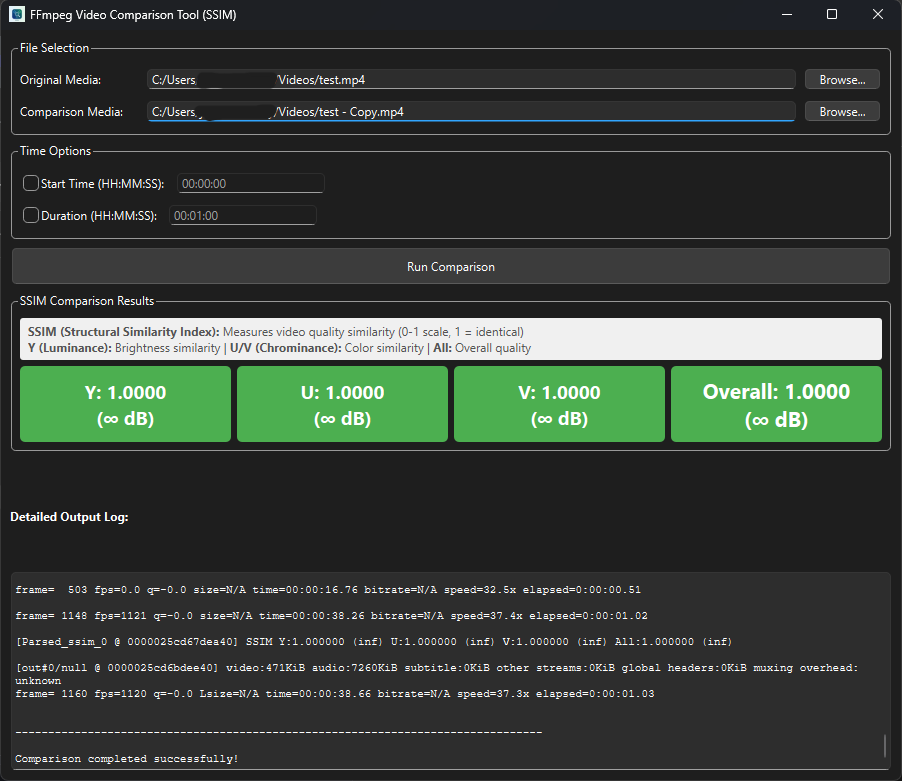
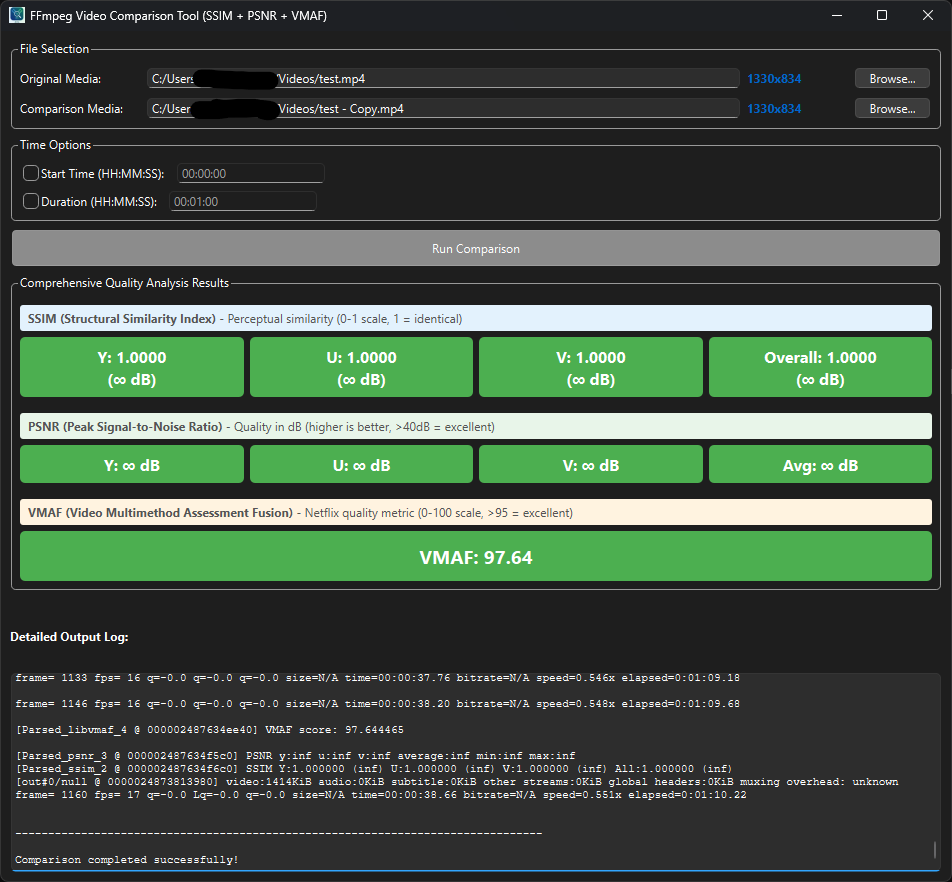
Enhance video quality analysis by adding PSNR and VMAF metrics to the comparison tool

diff --git a/src/MainWindow.cpp b/src/MainWindow.cpp
@@ -11,8 +11,8 @@
 
 MainWindow::MainWindow(QWidget *parent) : QMainWindow(parent), ffmpegProcess(nullptr) {
     setupUI();
-    setWindowTitle("FFmpeg Video Comparison Tool (SSIM)");
-    resize(900, 750);  // Taller window for better layout
+    setWindowTitle("FFmpeg Video Comparison Tool (SSIM + PSNR + VMAF)");
+    resize(950, 850);  // Larger window for additional metrics
 }
 
 MainWindow::~MainWindow() {
@@ -105,49 +105,93 @@ void MainWindow::setupUI() {
     mainLayout->addWidget(progressBar);
     
     // Results Group
-    resultsGroup = new QGroupBox("SSIM Comparison Results", this);
+    resultsGroup = new QGroupBox("Comprehensive Quality Analysis Results", this);
     resultsGroup->setVisible(false);
     QVBoxLayout *resultsLayout = new QVBoxLayout(resultsGroup);
     
-    // Info label
-    QLabel *infoLabel = new QLabel(
-        "<b>SSIM (Structural Similarity Index):</b> Measures video quality similarity (0-1 scale, 1 = identical)<br>"
-        "<b>Y (Luminance):</b> Brightness similarity | "
-        "<b>U/V (Chrominance):</b> Color similarity | "
-        "<b>All:</b> Overall quality",
-        this);
-    infoLabel->setWordWrap(true);
-    infoLabel->setStyleSheet("QLabel { color: #555; font-size: 9pt; padding: 5px; background-color: #f0f0f0; border-radius: 3px; }");
-    resultsLayout->addWidget(infoLabel);
+    // SSIM Section
+    QLabel *ssimHeader = new QLabel("<b>SSIM (Structural Similarity Index)</b> - Perceptual similarity (0-1 scale, 1 = identical)", this);
+    ssimHeader->setStyleSheet("QLabel { color: #555; font-size: 9pt; padding: 5px; background-color: #e3f2fd; border-radius: 3px; margin-top: 5px; }");
+    resultsLayout->addWidget(ssimHeader);
     
-    // Results display
-    QHBoxLayout *scoresLayout = new QHBoxLayout();
+    // SSIM Results display
+    QHBoxLayout *ssimLayout = new QHBoxLayout();
     
     resultYLabel = new QLabel("Y: --", this);
-    resultYLabel->setStyleSheet("QLabel { font-size: 14pt; font-weight: bold; padding: 10px; background-color: #e3f2fd; border-radius: 5px; }");
+    resultYLabel->setStyleSheet("QLabel { font-size: 12pt; font-weight: bold; padding: 8px; background-color: #e3f2fd; border-radius: 5px; }");
     resultYLabel->setAlignment(Qt::AlignCenter);
     resultYLabel->setToolTip("Luminance (Brightness) Similarity");
-    scoresLayout->addWidget(resultYLabel);
+    ssimLayout->addWidget(resultYLabel);
     
     resultULabel = new QLabel("U: --", this);
-    resultULabel->setStyleSheet("QLabel { font-size: 14pt; font-weight: bold; padding: 10px; background-color: #e8f5e9; border-radius: 5px; }");
+    resultULabel->setStyleSheet("QLabel { font-size: 12pt; font-weight: bold; padding: 8px; background-color: #e3f2fd; border-radius: 5px; }");
     resultULabel->setAlignment(Qt::AlignCenter);
     resultULabel->setToolTip("U Chrominance (Color) Similarity");
-    scoresLayout->addWidget(resultULabel);
+    ssimLayout->addWidget(resultULabel);
     
     resultVLabel = new QLabel("V: --", this);
-    resultVLabel->setStyleSheet("QLabel { font-size: 14pt; font-weight: bold; padding: 10px; background-color: #fff3e0; border-radius: 5px; }");
+    resultVLabel->setStyleSheet("QLabel { font-size: 12pt; font-weight: bold; padding: 8px; background-color: #e3f2fd; border-radius: 5px; }");
     resultVLabel->setAlignment(Qt::AlignCenter);
     resultVLabel->setToolTip("V Chrominance (Color) Similarity");
-    scoresLayout->addWidget(resultVLabel);
+    ssimLayout->addWidget(resultVLabel);
     
     resultAllLabel = new QLabel("Overall: --", this);
-    resultAllLabel->setStyleSheet("QLabel { font-size: 16pt; font-weight: bold; padding: 10px; background-color: #f3e5f5; border-radius: 5px; }");
+    resultAllLabel->setStyleSheet("QLabel { font-size: 12pt; font-weight: bold; padding: 8px; background-color: #bbdefb; border-radius: 5px; }");
     resultAllLabel->setAlignment(Qt::AlignCenter);
-    resultAllLabel->setToolTip("Overall Quality Score");
-    scoresLayout->addWidget(resultAllLabel);
+    resultAllLabel->setToolTip("Overall SSIM Score");
+    ssimLayout->addWidget(resultAllLabel);
     
-    resultsLayout->addLayout(scoresLayout);
+    resultsLayout->addLayout(ssimLayout);
+    
+    // PSNR Section
+    QLabel *psnrHeader = new QLabel("<b>PSNR (Peak Signal-to-Noise Ratio)</b> - Quality in dB (higher is better, >40dB = excellent)", this);
+    psnrHeader->setStyleSheet("QLabel { color: #555; font-size: 9pt; padding: 5px; background-color: #e8f5e9; border-radius: 3px; margin-top: 10px; }");
+    resultsLayout->addWidget(psnrHeader);
+    
+    // PSNR Results display
+    QHBoxLayout *psnrLayout = new QHBoxLayout();
+    
+    psnrYLabel = new QLabel("Y: --", this);
+    psnrYLabel->setStyleSheet("QLabel { font-size: 12pt; font-weight: bold; padding: 8px; background-color: #e8f5e9; border-radius: 5px; }");
+    psnrYLabel->setAlignment(Qt::AlignCenter);
+    psnrYLabel->setToolTip("Luminance PSNR");
+    psnrLayout->addWidget(psnrYLabel);
+    
+    psnrULabel = new QLabel("U: --", this);
+    psnrULabel->setStyleSheet("QLabel { font-size: 12pt; font-weight: bold; padding: 8px; background-color: #e8f5e9; border-radius: 5px; }");
+    psnrULabel->setAlignment(Qt::AlignCenter);
+    psnrULabel->setToolTip("U Chrominance PSNR");
+    psnrLayout->addWidget(psnrULabel);
+    
+    psnrVLabel = new QLabel("V: --", this);
+    psnrVLabel->setStyleSheet("QLabel { font-size: 12pt; font-weight: bold; padding: 8px; background-color: #e8f5e9; border-radius: 5px; }");
+    psnrVLabel->setAlignment(Qt::AlignCenter);
+    psnrVLabel->setToolTip("V Chrominance PSNR");
+    psnrLayout->addWidget(psnrVLabel);
+    
+    psnrAvgLabel = new QLabel("Average: --", this);
+    psnrAvgLabel->setStyleSheet("QLabel { font-size: 12pt; font-weight: bold; padding: 8px; background-color: #c8e6c9; border-radius: 5px; }");
+    psnrAvgLabel->setAlignment(Qt::AlignCenter);
+    psnrAvgLabel->setToolTip("Average PSNR");
+    psnrLayout->addWidget(psnrAvgLabel);
+    
+    resultsLayout->addLayout(psnrLayout);
+    
+    // VMAF Section
+    QLabel *vmafHeader = new QLabel("<b>VMAF (Video Multimethod Assessment Fusion)</b> - Netflix quality metric (0-100 scale, >95 = excellent)", this);
+    vmafHeader->setStyleSheet("QLabel { color: #555; font-size: 9pt; padding: 5px; background-color: #fff3e0; border-radius: 3px; margin-top: 10px; }");
+    resultsLayout->addWidget(vmafHeader);
+    
+    // VMAF Results display
+    QHBoxLayout *vmafLayout = new QHBoxLayout();
+    
+    vmafScoreLabel = new QLabel("VMAF Score: --", this);
+    vmafScoreLabel->setStyleSheet("QLabel { font-size: 14pt; font-weight: bold; padding: 12px; background-color: #ffe0b2; border-radius: 5px; }");
+    vmafScoreLabel->setAlignment(Qt::AlignCenter);
+    vmafScoreLabel->setToolTip("Overall VMAF Quality Score");
+    vmafLayout->addWidget(vmafScoreLabel);
+    
+    resultsLayout->addLayout(vmafLayout);
     mainLayout->addWidget(resultsGroup);
     
     // Add spacing
@@ -286,8 +330,16 @@ void MainWindow::runComparison() {
     // Second input file
     arguments << "-i" << comparisonFileEdit->text();
     
-    // SSIM filter and output
-    arguments << "-lavfi" << "ssim" << "-f" << "null" << "-";
+    // Complex filter with SSIM, PSNR, and VMAF
+    QString filterComplex = "[0:v]split=3[ref1][ref2][ref3];[1:v]split=3[main1][main2][main3];"
+                            "[main1][ref1]ssim[stats_ssim];"
+                            "[main2][ref2]psnr[stats_psnr];"
+                            "[main3][ref3]libvmaf";
+    
+    arguments << "-filter_complex" << filterComplex
+              << "-map" << "[stats_ssim]"
+              << "-map" << "[stats_psnr]"
+              << "-f" << "null" << "-";
     
     // Display command
     outputText->clear();
@@ -391,8 +443,8 @@ void MainWindow::processError() {
             QString allDbStr = ssimMatch.captured(8);
             
             // Update result labels with color coding
-            auto getColorStyle = [](double score) {
-                QString baseStyle = "QLabel { font-size: 14pt; font-weight: bold; padding: 10px; border-radius: 5px; ";
+            auto getSSIMColorStyle = [](double score) {
+                QString baseStyle = "QLabel { font-size: 12pt; font-weight: bold; padding: 8px; border-radius: 5px; ";
                 if (score >= 0.99) return baseStyle + "background-color: #4caf50; color: white; }"; // Excellent - green
                 if (score >= 0.95) return baseStyle + "background-color: #8bc34a; color: white; }"; // Very good - light green
                 if (score >= 0.90) return baseStyle + "background-color: #ffeb3b; color: black; }"; // Good - yellow
@@ -401,23 +453,74 @@ void MainWindow::processError() {
             };
             
             resultYLabel->setText(QString("Y: %1\n(%2)").arg(yScore, 0, 'f', 4).arg(yDbStr == "inf" ? "∞ dB" : yDbStr + " dB"));
-            resultYLabel->setStyleSheet(getColorStyle(yScore));
+            resultYLabel->setStyleSheet(getSSIMColorStyle(yScore));
             
             resultULabel->setText(QString("U: %1\n(%2)").arg(uScore, 0, 'f', 4).arg(uDbStr == "inf" ? "∞ dB" : uDbStr + " dB"));
-            resultULabel->setStyleSheet(getColorStyle(uScore));
+            resultULabel->setStyleSheet(getSSIMColorStyle(uScore));
             
             resultVLabel->setText(QString("V: %1\n(%2)").arg(vScore, 0, 'f', 4).arg(vDbStr == "inf" ? "∞ dB" : vDbStr + " dB"));
-            resultVLabel->setStyleSheet(getColorStyle(vScore));
-            
-            QString overallStyle = "QLabel { font-size: 16pt; font-weight: bold; padding: 10px; border-radius: 5px; ";
-            if (allScore >= 0.99) overallStyle += "background-color: #4caf50; color: white; }";
-            else if (allScore >= 0.95) overallStyle += "background-color: #8bc34a; color: white; }";
-            else if (allScore >= 0.90) overallStyle += "background-color: #ffeb3b; color: black; }";
-            else if (allScore >= 0.80) overallStyle += "background-color: #ff9800; color: white; }";
-            else overallStyle += "background-color: #f44336; color: white; }";
+            resultVLabel->setStyleSheet(getSSIMColorStyle(vScore));
             
             resultAllLabel->setText(QString("Overall: %1\n(%2)").arg(allScore, 0, 'f', 4).arg(allDbStr == "inf" ? "∞ dB" : allDbStr + " dB"));
-            resultAllLabel->setStyleSheet(overallStyle);
+            resultAllLabel->setStyleSheet(getSSIMColorStyle(allScore));
+            
+            resultsGroup->setVisible(true);
+        }
+        
+        // Parse PSNR results
+        QRegularExpression psnrRegex("PSNR.*?y:([\\d.]+|inf).*?u:([\\d.]+|inf).*?v:([\\d.]+|inf).*?average:([\\d.]+|inf)");
+        QRegularExpressionMatch psnrMatch = psnrRegex.match(error);
+        if (psnrMatch.hasMatch()) {
+            QString yDb = psnrMatch.captured(1);
+            QString uDb = psnrMatch.captured(2);
+            QString vDb = psnrMatch.captured(3);
+            QString avgDb = psnrMatch.captured(4);
+            
+            // Update PSNR labels with color coding
+            auto getPSNRColorStyle = [](const QString& dbStr) {
+                if (dbStr == "inf") {
+                    return QString("QLabel { font-size: 12pt; font-weight: bold; padding: 8px; border-radius: 5px; background-color: #4caf50; color: white; }");
+                }
+                double db = dbStr.toDouble();
+                QString baseStyle = "QLabel { font-size: 12pt; font-weight: bold; padding: 8px; border-radius: 5px; ";
+                if (db >= 40.0) return baseStyle + "background-color: #4caf50; color: white; }"; // Excellent
+                if (db >= 35.0) return baseStyle + "background-color: #8bc34a; color: white; }"; // Very good
+                if (db >= 30.0) return baseStyle + "background-color: #ffeb3b; color: black; }"; // Good
+                if (db >= 25.0) return baseStyle + "background-color: #ff9800; color: white; }"; // Fair
+                return baseStyle + "background-color: #f44336; color: white; }"; // Poor
+            };
+            
+            psnrYLabel->setText(QString("Y: %1 dB").arg(yDb == "inf" ? "∞" : yDb));
+            psnrYLabel->setStyleSheet(getPSNRColorStyle(yDb));
+            
+            psnrULabel->setText(QString("U: %1 dB").arg(uDb == "inf" ? "∞" : uDb));
+            psnrULabel->setStyleSheet(getPSNRColorStyle(uDb));
+            
+            psnrVLabel->setText(QString("V: %1 dB").arg(vDb == "inf" ? "∞" : vDb));
+            psnrVLabel->setStyleSheet(getPSNRColorStyle(vDb));
+            
+            psnrAvgLabel->setText(QString("Avg: %1 dB").arg(avgDb == "inf" ? "∞" : avgDb));
+            psnrAvgLabel->setStyleSheet(getPSNRColorStyle(avgDb));
+            
+            resultsGroup->setVisible(true);
+        }
+        
+        // Parse VMAF results
+        QRegularExpression vmafRegex("VMAF score[:\\s=]+([\\d.]+)");
+        QRegularExpressionMatch vmafMatch = vmafRegex.match(error);
+        if (vmafMatch.hasMatch()) {
+            double vmafScore = vmafMatch.captured(1).toDouble();
+            
+            // Update VMAF label with color coding
+            QString vmafStyle = "QLabel { font-size: 14pt; font-weight: bold; padding: 12px; border-radius: 5px; ";
+            if (vmafScore >= 95.0) vmafStyle += "background-color: #4caf50; color: white; }"; // Excellent
+            else if (vmafScore >= 85.0) vmafStyle += "background-color: #8bc34a; color: white; }"; // Very good
+            else if (vmafScore >= 75.0) vmafStyle += "background-color: #ffeb3b; color: black; }"; // Good
+            else if (vmafScore >= 60.0) vmafStyle += "background-color: #ff9800; color: white; }"; // Fair
+            else vmafStyle += "background-color: #f44336; color: white; }"; // Poor
+            
+            vmafScoreLabel->setText(QString("VMAF: %1").arg(vmafScore, 0, 'f', 2));
+            vmafScoreLabel->setStyleSheet(vmafStyle);
             
             resultsGroup->setVisible(true);
         }

diff --git a/src/MainWindow.h b/src/MainWindow.h
@@ -57,6 +57,15 @@ private:
     QLabel *resultVLabel;
     QLabel *resultAllLabel;
     
+    // PSNR results
+    QLabel *psnrYLabel;
+    QLabel *psnrULabel;
+    QLabel *psnrVLabel;
+    QLabel *psnrAvgLabel;
+    
+    // VMAF results
+    QLabel *vmafScoreLabel;
+    
     QTextEdit *outputText;
     
     QProcess *ffmpegProcess;
